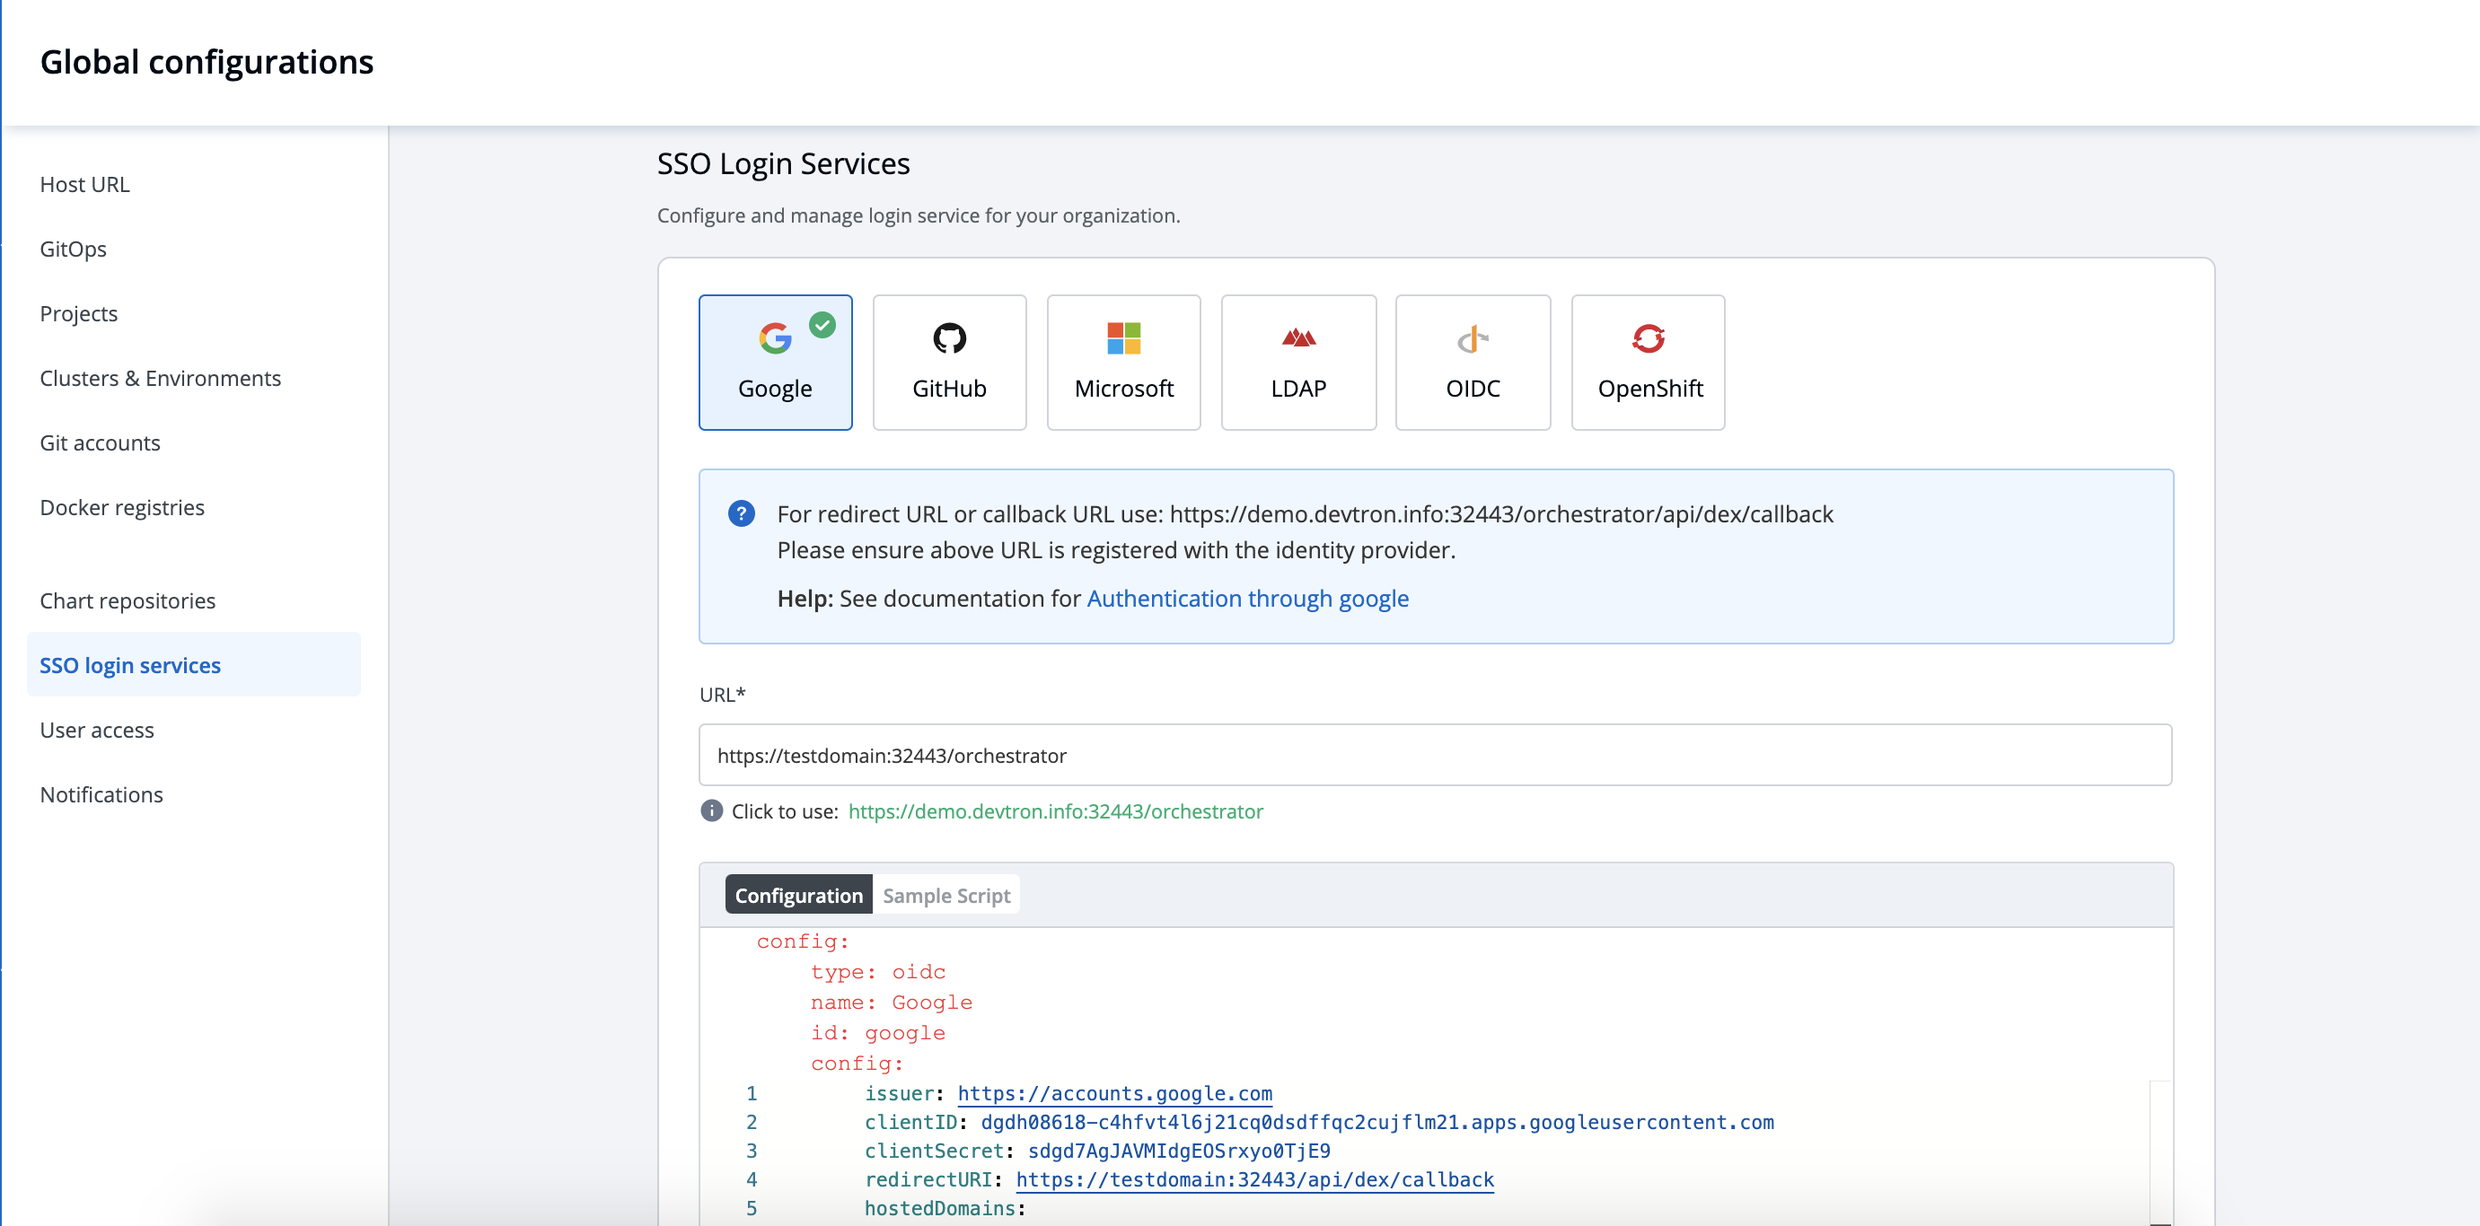
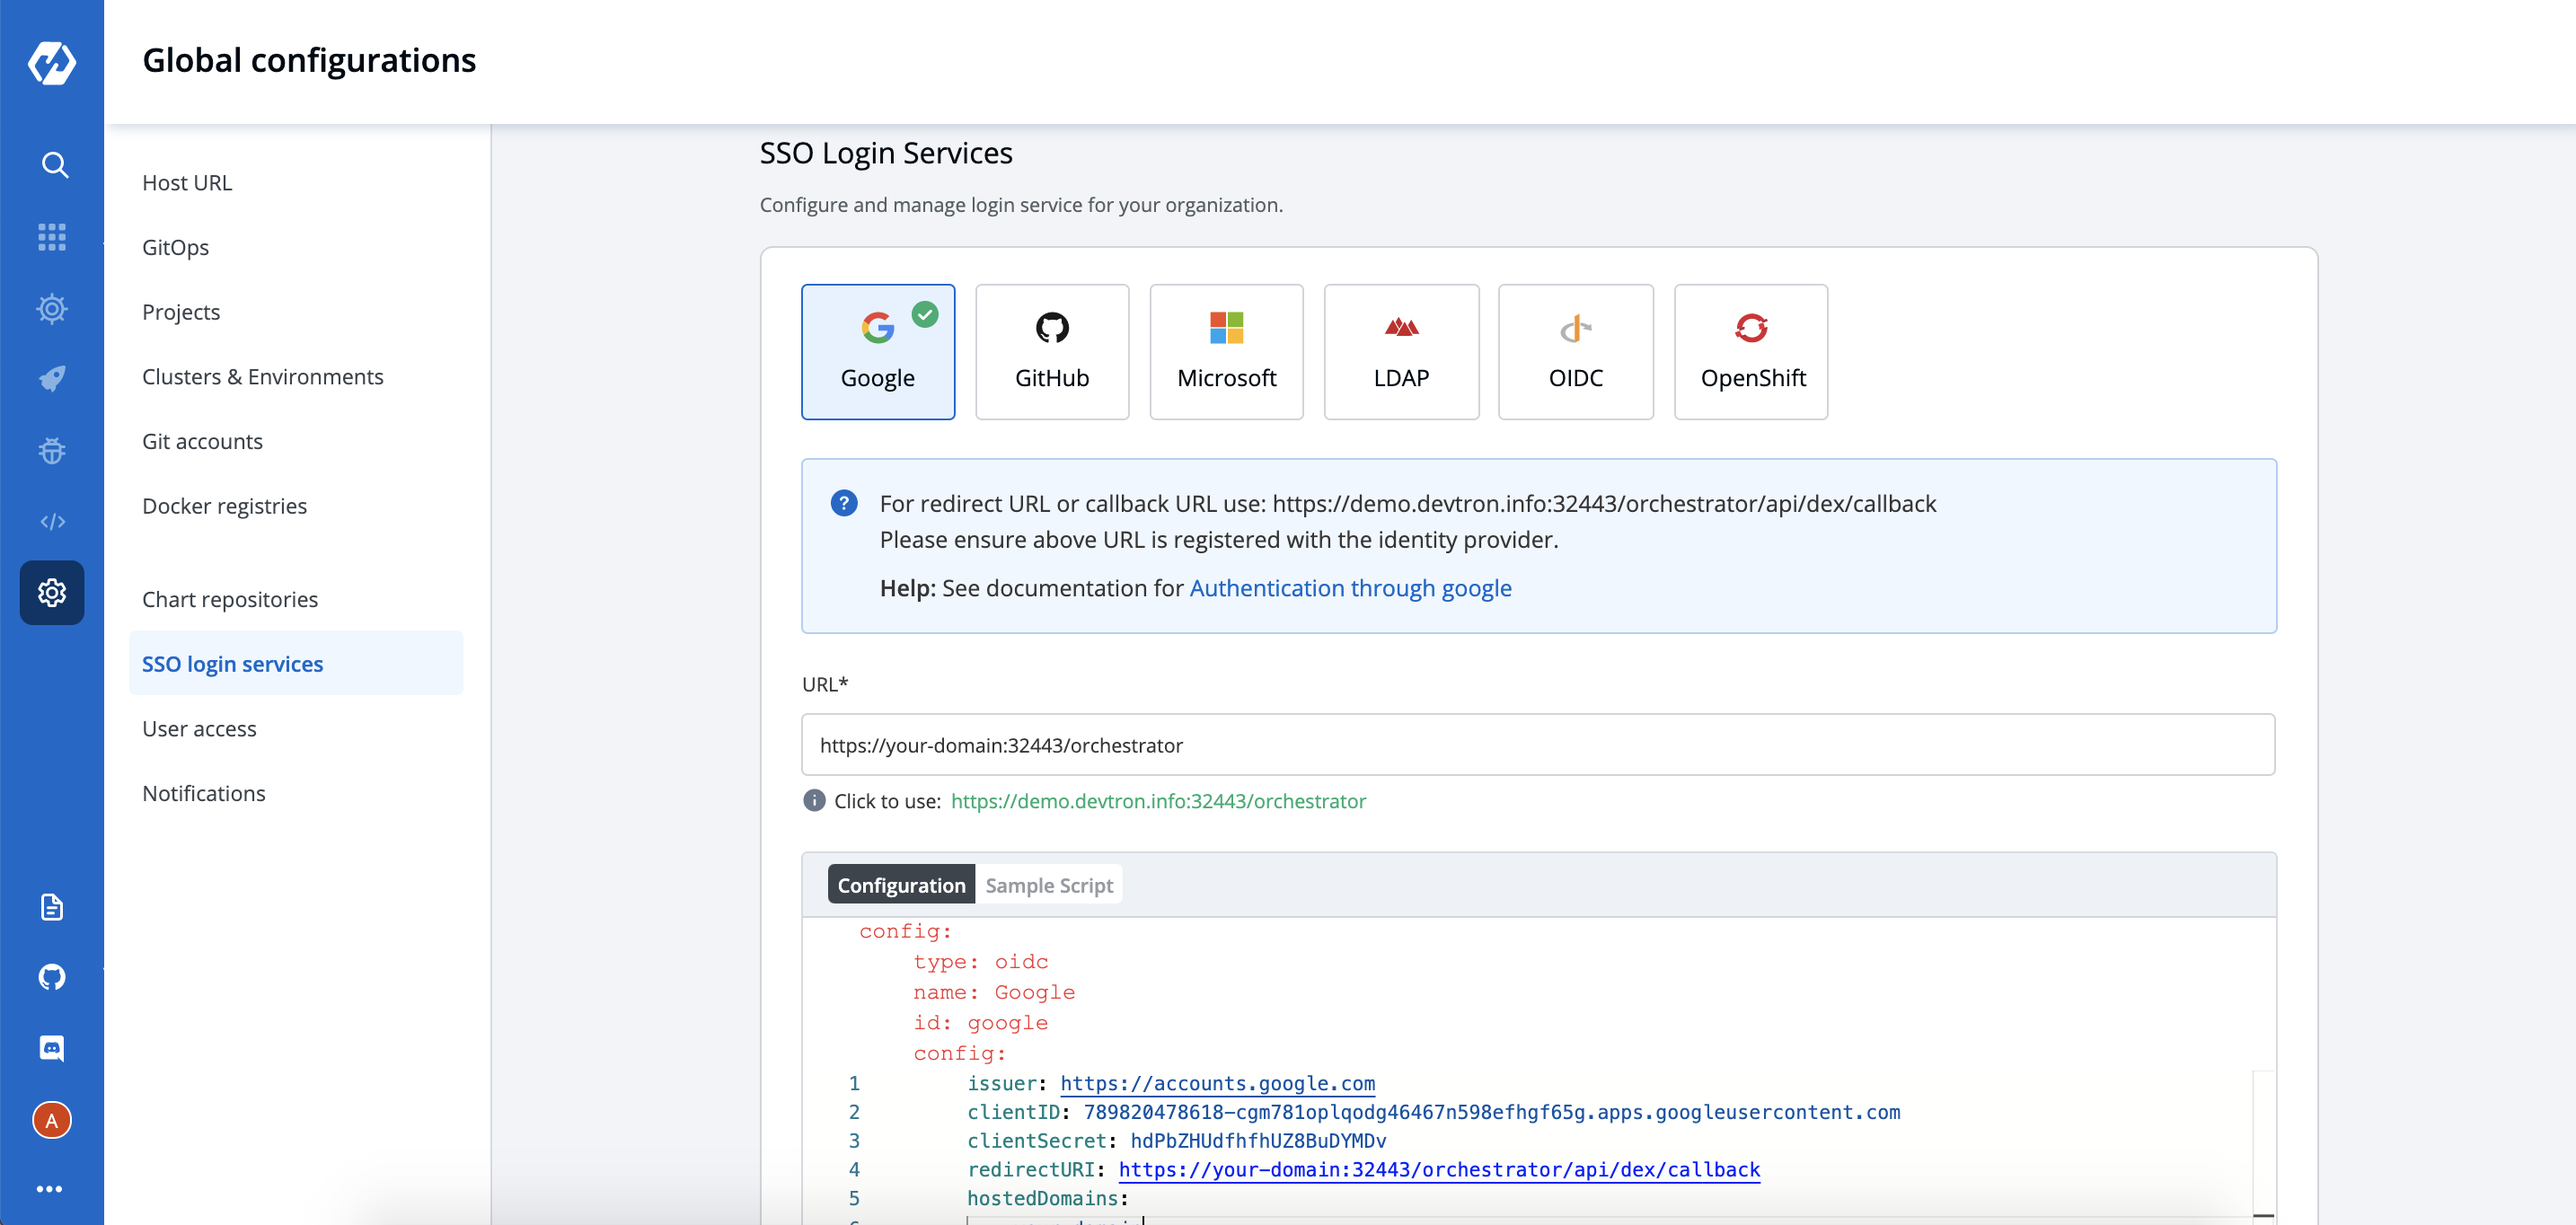
added updated screens for sso login doc

diff --git a/docs/user-guide/global-configurations/sso-login.md b/docs/user-guide/global-configurations/sso-login.md
@@ -33,6 +33,9 @@ Fill correct `redirect URL` or `callback URL` with which you have registered wit
 Only single SSO login configuration can be active at one time. Whenever you create or update any sso config that config will be activated and used by the system and previous configuration will be deleted.
 
 ![](../../.gitbook/assets/sso-login-3.png)
+
+URL and redirectURI should be same as provided in screenshots except domain substring.
+
 ![](../../.gitbook/assets/sso-login-4.png)
 
 Click on `Save` bottom for creating and activating sso login on bottom right of the configuration.
